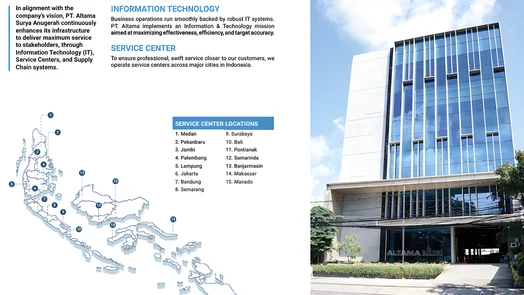
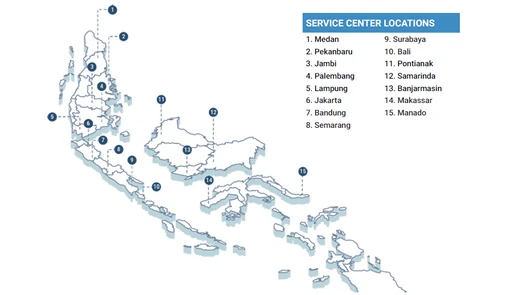
asset: Infrastruktur service-center slide in two photos (#237) (#238)
Replace the combined map + building slide with the service-center map from
the client's original (renamed service-center-map.jpeg in new-assets) and
the ALTAMA Building cropped from service-centers-building.png. The
slideshow test now counts nine slides.

diff --git a/test/wall-controller.test.ts b/test/wall-controller.test.ts
@@ -232,7 +232,7 @@ describe('page auto change', () => {
 });
 
 describe('reset waits for the auto slideshow', () => {
-  // Column 3 (Infrastruktur): photo 0 is a video, then 7 images; auto slide 5 s, reset 30 s.
+  // Column 3 (Infrastruktur): photo 0 is a video, then 8 images; auto slide 5 s, reset 30 s.
   function open(autoSlideMs = () => 5000) {
     const wall = useWallStore(createPinia());
     const scope = effectScope();
@@ -247,7 +247,7 @@ describe('reset waits for the auto slideshow', () => {
     // Re-evaluate the video flag now that the store is reachable.
     controls.dispatch({ type: 'next', columnId: 3 });
     controls.dispatch({ type: 'previous', columnId: 3 });
-    expect(wall.publishedColumns[3]!.photoCount).toBe(8);
+    expect(wall.publishedColumns[3]!.photoCount).toBe(9);
     return { wall, controls };
   }
 
@@ -257,21 +257,21 @@ describe('reset waits for the auto slideshow', () => {
     controls.mediaEnded(3); // the 30 s video ends
     expect(wall.getColumnState(3)).toBe('active');
     expect(wall.publishedColumns[3]!.photo).toBe(1);
-    vi.advanceTimersByTime(6 * 5000);
-    expect(wall.publishedColumns[3]!.photo).toBe(7);
+    vi.advanceTimersByTime(7 * 5000);
+    expect(wall.publishedColumns[3]!.photo).toBe(8);
     expect(wall.getColumnState(3)).toBe('active');
     vi.advanceTimersByTime(4999);
     expect(wall.getColumnState(3)).toBe('active');
-    vi.advanceTimersByTime(1); // 30 s video + 7 × 5 s images = 65 s
+    vi.advanceTimersByTime(1); // 30 s video + 8 × 5 s images = 70 s
     expect(wall.getColumnState(3)).toBe('idle');
   });
 
   it('keeps the normal reset time when the slideshow already finished', () => {
     const { wall, controls } = open(() => 3000);
     controls.mediaEnded(3); // short video
-    vi.advanceTimersByTime(7 * 3000); // whole slideshow seen (21 s), wrapped back to the video
+    vi.advanceTimersByTime(8 * 3000); // whole slideshow seen (24 s), wrapped back to the video
     expect(wall.publishedColumns[3]!.photo).toBe(0);
-    vi.advanceTimersByTime(30_000 - 7 * 3000 - 1);
+    vi.advanceTimersByTime(30_000 - 8 * 3000 - 1);
     expect(wall.getColumnState(3)).toBe('active');
     vi.advanceTimersByTime(1);
     expect(wall.getColumnState(3)).toBe('idle');

diff --git a/app/data/columns/3-infrastructure.ts b/app/data/columns/3-infrastructure.ts
@@ -10,6 +10,7 @@ const PHOTOS = [
   provisional('/photos/infrastructure/photo-6.webp'),
   provisional('/photos/infrastructure/photo-7.webp'),
   provisional('/photos/infrastructure/photo-8.webp'),
+  provisional('/photos/infrastructure/photo-9.webp'),
 ];
 
 /** Column 3 — Infrastruktur: one page of facilities with a photo slider. */

diff --git a/docs/content.md b/docs/content.md
@@ -6,7 +6,7 @@ Every column's text, artwork, tiles, pages, and photos live in one file. Change 
 | --- | --- | --- |
 | 1 Tentang Altama | `app/data/columns/1-about-altama.ts` | single, 1 page with 4-photo slider |
 | 2 Our Brand | `app/data/columns/2-our-brands.ts` | expandable: `tekiro`, `ryu`, `rexco` |
-| 3 Infrastruktur | `app/data/columns/3-infrastructure.ts` | single, 1 page with video & 7-photo slider |
+| 3 Infrastruktur | `app/data/columns/3-infrastructure.ts` | single, 1 page with video & 8-photo slider |
 | 4 Digital Trust | `app/data/columns/4-digital-trust.ts` | single, 1 page with 5-photo slider |
 | 5 Distribusi & Pemasaran | `app/data/columns/5-distribution.ts` | expandable: `distribusi`, `pemasaran` (two pages each, sharing their photos) |
 | 6 Altama Summit 2026 | `app/data/columns/6-summit-2026.ts` | single, text only |
